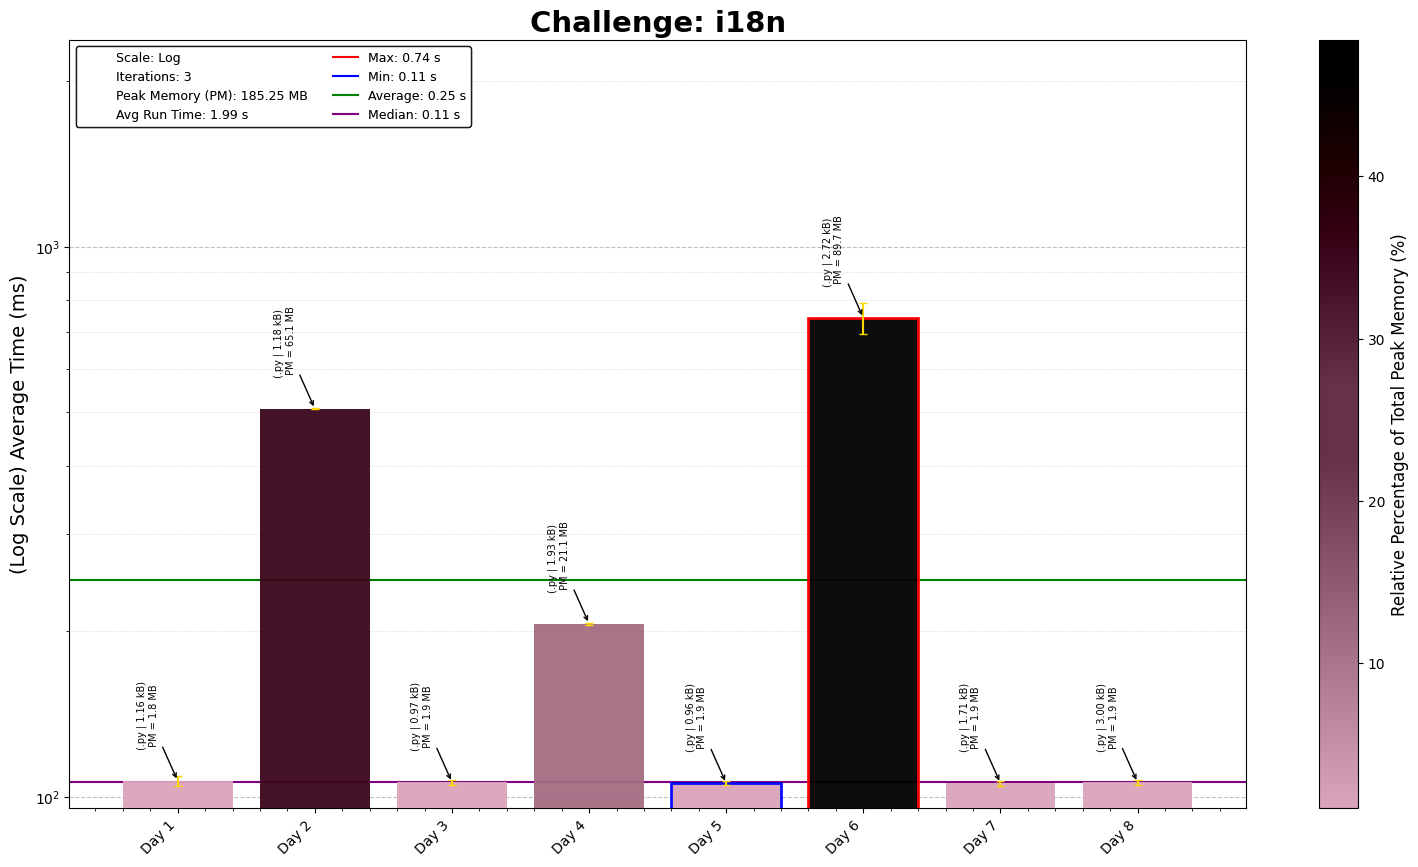
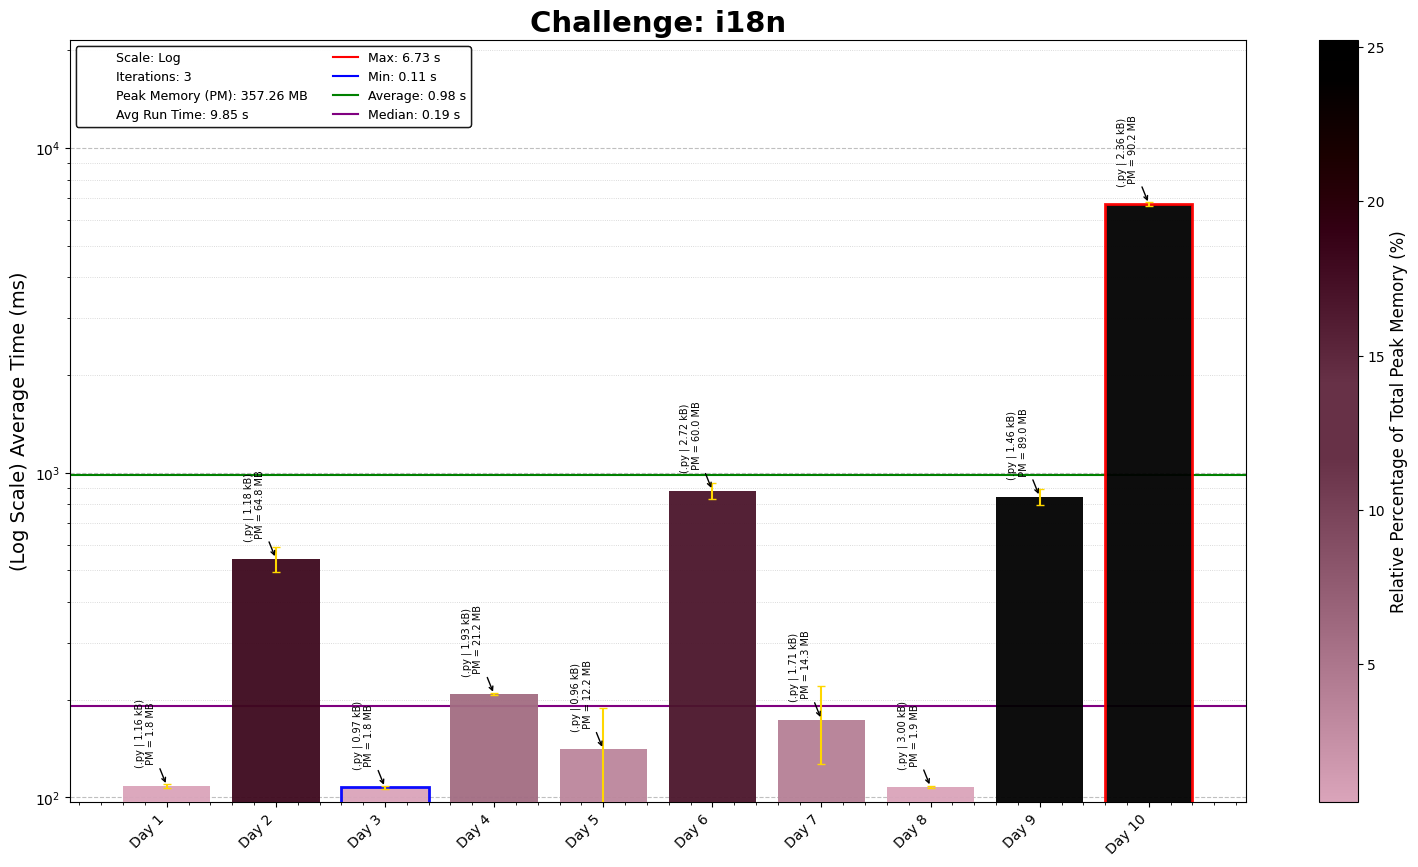
i18n Puzzle 10

diff --git a/i18n/10/i18nDay10.py b/i18n/10/i18nDay10.py
@@ -1,0 +1,75 @@
+"""i18n Puzzles - Puzzle 10
+Solution Started: Mar 16, 2025
+Puzzle Link: https://i18n-puzzles.com/puzzle/10/
+Solution by: Abbas Moosajee
+Brief: [Unicode passwords strike back!]
+"""
+
+#!/usr/bin/env python3
+
+import os, re, copy
+import numpy as np
+import pandas as pd
+import matplotlib.pyplot as plt
+import bcrypt, unicodedata, functools
+
+# Load the input data from the specified file path
+D10_file = "Day10_input.txt"
+D10_file_path = os.path.join(os.path.dirname(os.path.abspath(__file__)), D10_file)
+
+# Read and sort input data into a grid
+with open(D10_file_path, encoding="utf-8") as file:
+    input_data = file.read().strip().split('\n\n')
+
+# Constructing the dictionary
+AUTHENTICATIONS = {
+    user: bcrypt_pwd
+    for line in input_data[0].split('\n')  # Split input into lines
+    for user, bcrypt_pwd in [line.split(' ', 1)]  # Split each line into (user, password)
+}
+login_attempts = input_data[1].split('\n')
+
+def recompositions(normalized_string: str):
+    nfc_chars = list(normalized_string)
+    composed_indexes = {
+        i for i, char in enumerate(nfc_chars)
+        if char != unicodedata.normalize("NFD", char)
+    }
+    subsets_list = list(subsets(composed_indexes))
+    return (
+        "".join([
+            unicodedata.normalize("NFD", char) if i in test_indexes else char
+            for i, char in enumerate(nfc_chars)
+        ])
+        for test_indexes in subsets_list
+    )
+
+def subsets(superset):
+    set_list = list(superset)
+    return (
+        {val for i, val in enumerate(set_list) if bitfield & (1 << i)}
+        for bitfield in range(1 << len(set_list))
+    )
+
+@functools.lru_cache(maxsize=None)
+def is_valid_login(normalized_attempt: str, hashed_pw: bytes) -> bool:
+    return any(
+        bcrypt.checkpw(test_pw.encode("utf-8"), hashed_pw)
+        for test_pw in recompositions(normalized_attempt)
+    )
+
+def validate_login(username: str, password: str) -> bool:
+    normalized = unicodedata.normalize("NFC", password)
+    auth_password = AUTHENTICATIONS.get(username).encode("utf-8")
+    if not auth_password:
+        return False
+    return is_valid_login(normalized, auth_password)
+
+total_logins = 0
+for login in login_attempts[:]:
+    user, password = login.split(' ')
+    valid_login = validate_login(user, password)
+    if valid_login:
+        total_logins += 1
+
+print("Total Logins:", total_logins)

diff --git a/i18n/README_i18n.md b/i18n/README_i18n.md
@@ -12,4 +12,5 @@ This repository contains coding solutions for the i18n puzzles.
 6. **Puzzle 6- Mojibake puzzle dictionary**: Fairly simple problem of matching words, once you make sure you have copied the input correctly. Took a while to realize that.
 7. **Puzzle 7- The audit trail fixer**: Handling timezones and daylight saving shifts, definitely a guiding direction.
 8. **Puzzle 8- Unicode passwords redux**: Validating passwords fairly simple, once I figured out how to normalise the letter.
+10. **Puzzle 10- Unicode passwords strike back!**: Validating a series of login attempts by checking passwords, using the bcrypt algorithm.
 ---
